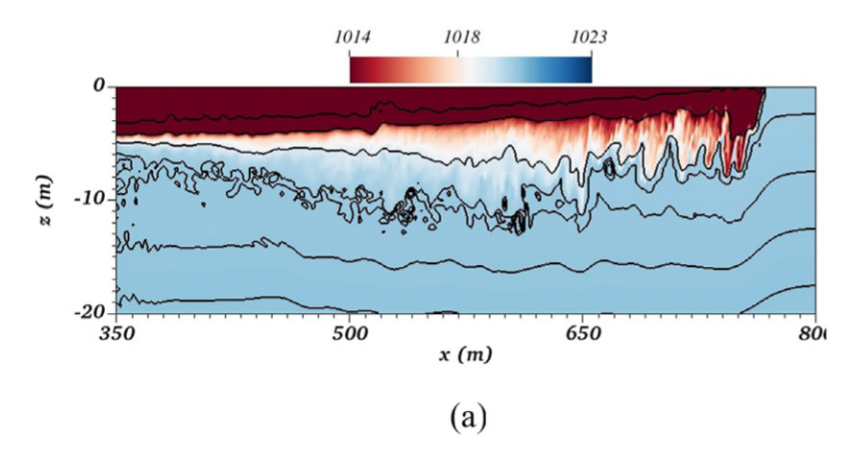
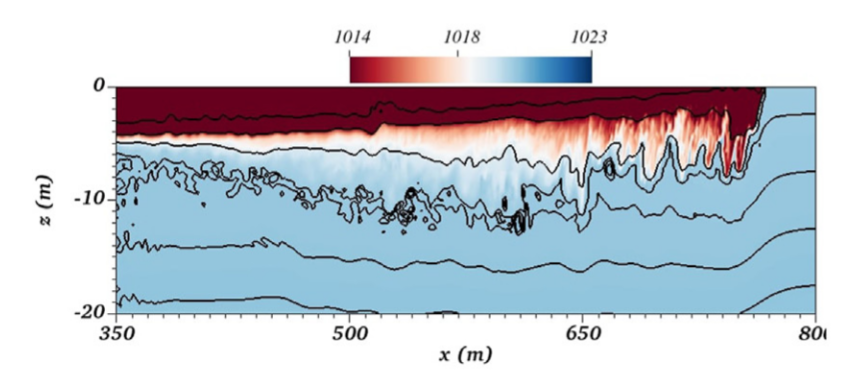
Research

diff --git a/_pages/research.md b/_pages/research.md
@@ -73,7 +73,7 @@ horizontal: false
       <h2 class="mb-0">
         <button class="btn btn-link btn-block text-left collapsed text-decoration-none" type="button" data-toggle="collapse" data-target="#collapseTwo" aria-expanded="false" aria-controls="collapseTwo">
           <span style="font-size: 1.5rem; color: var(--global-theme-color); font-weight: bold; text-transform: none;">
-            &bull; &nbsp; Stratified turbulent flows (gravity currents)
+            &bull; &nbsp; Stratified turbulence (gravity currents, mixing)
           </span>
         </button>
       </h2>
@@ -96,7 +96,7 @@ horizontal: false
              muted=true
           %}
           <div class="caption">
-            Schematic of a lock-exchange gravity current propagation.
+            Evolution of a typical gravity current in a finite-sized domain.
           </div>
         </div>
 
